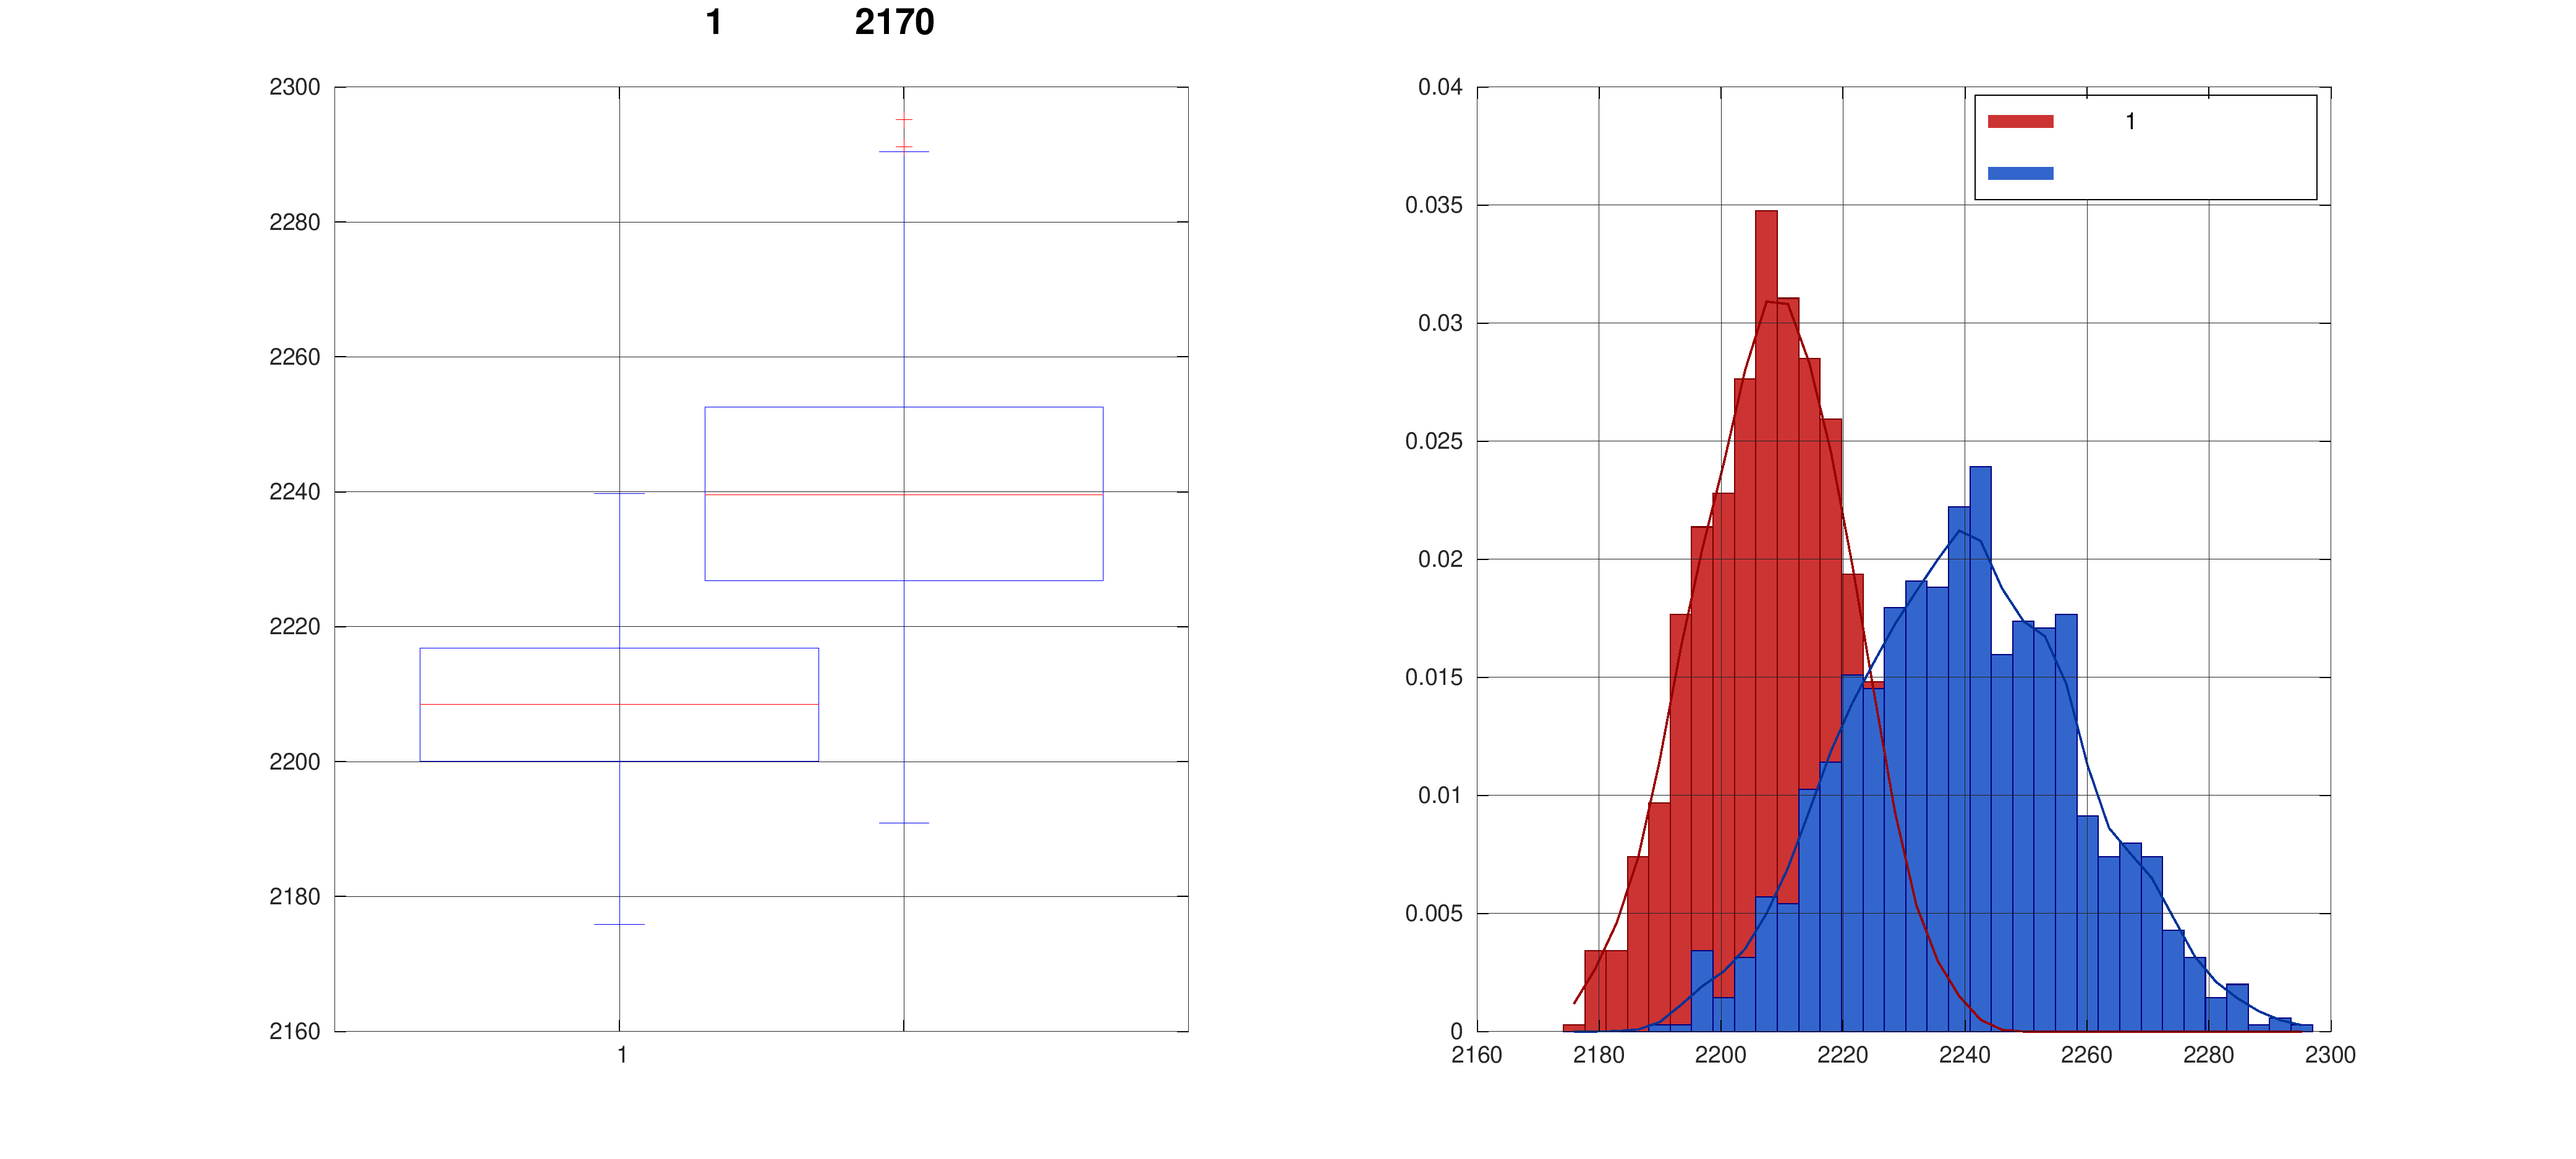
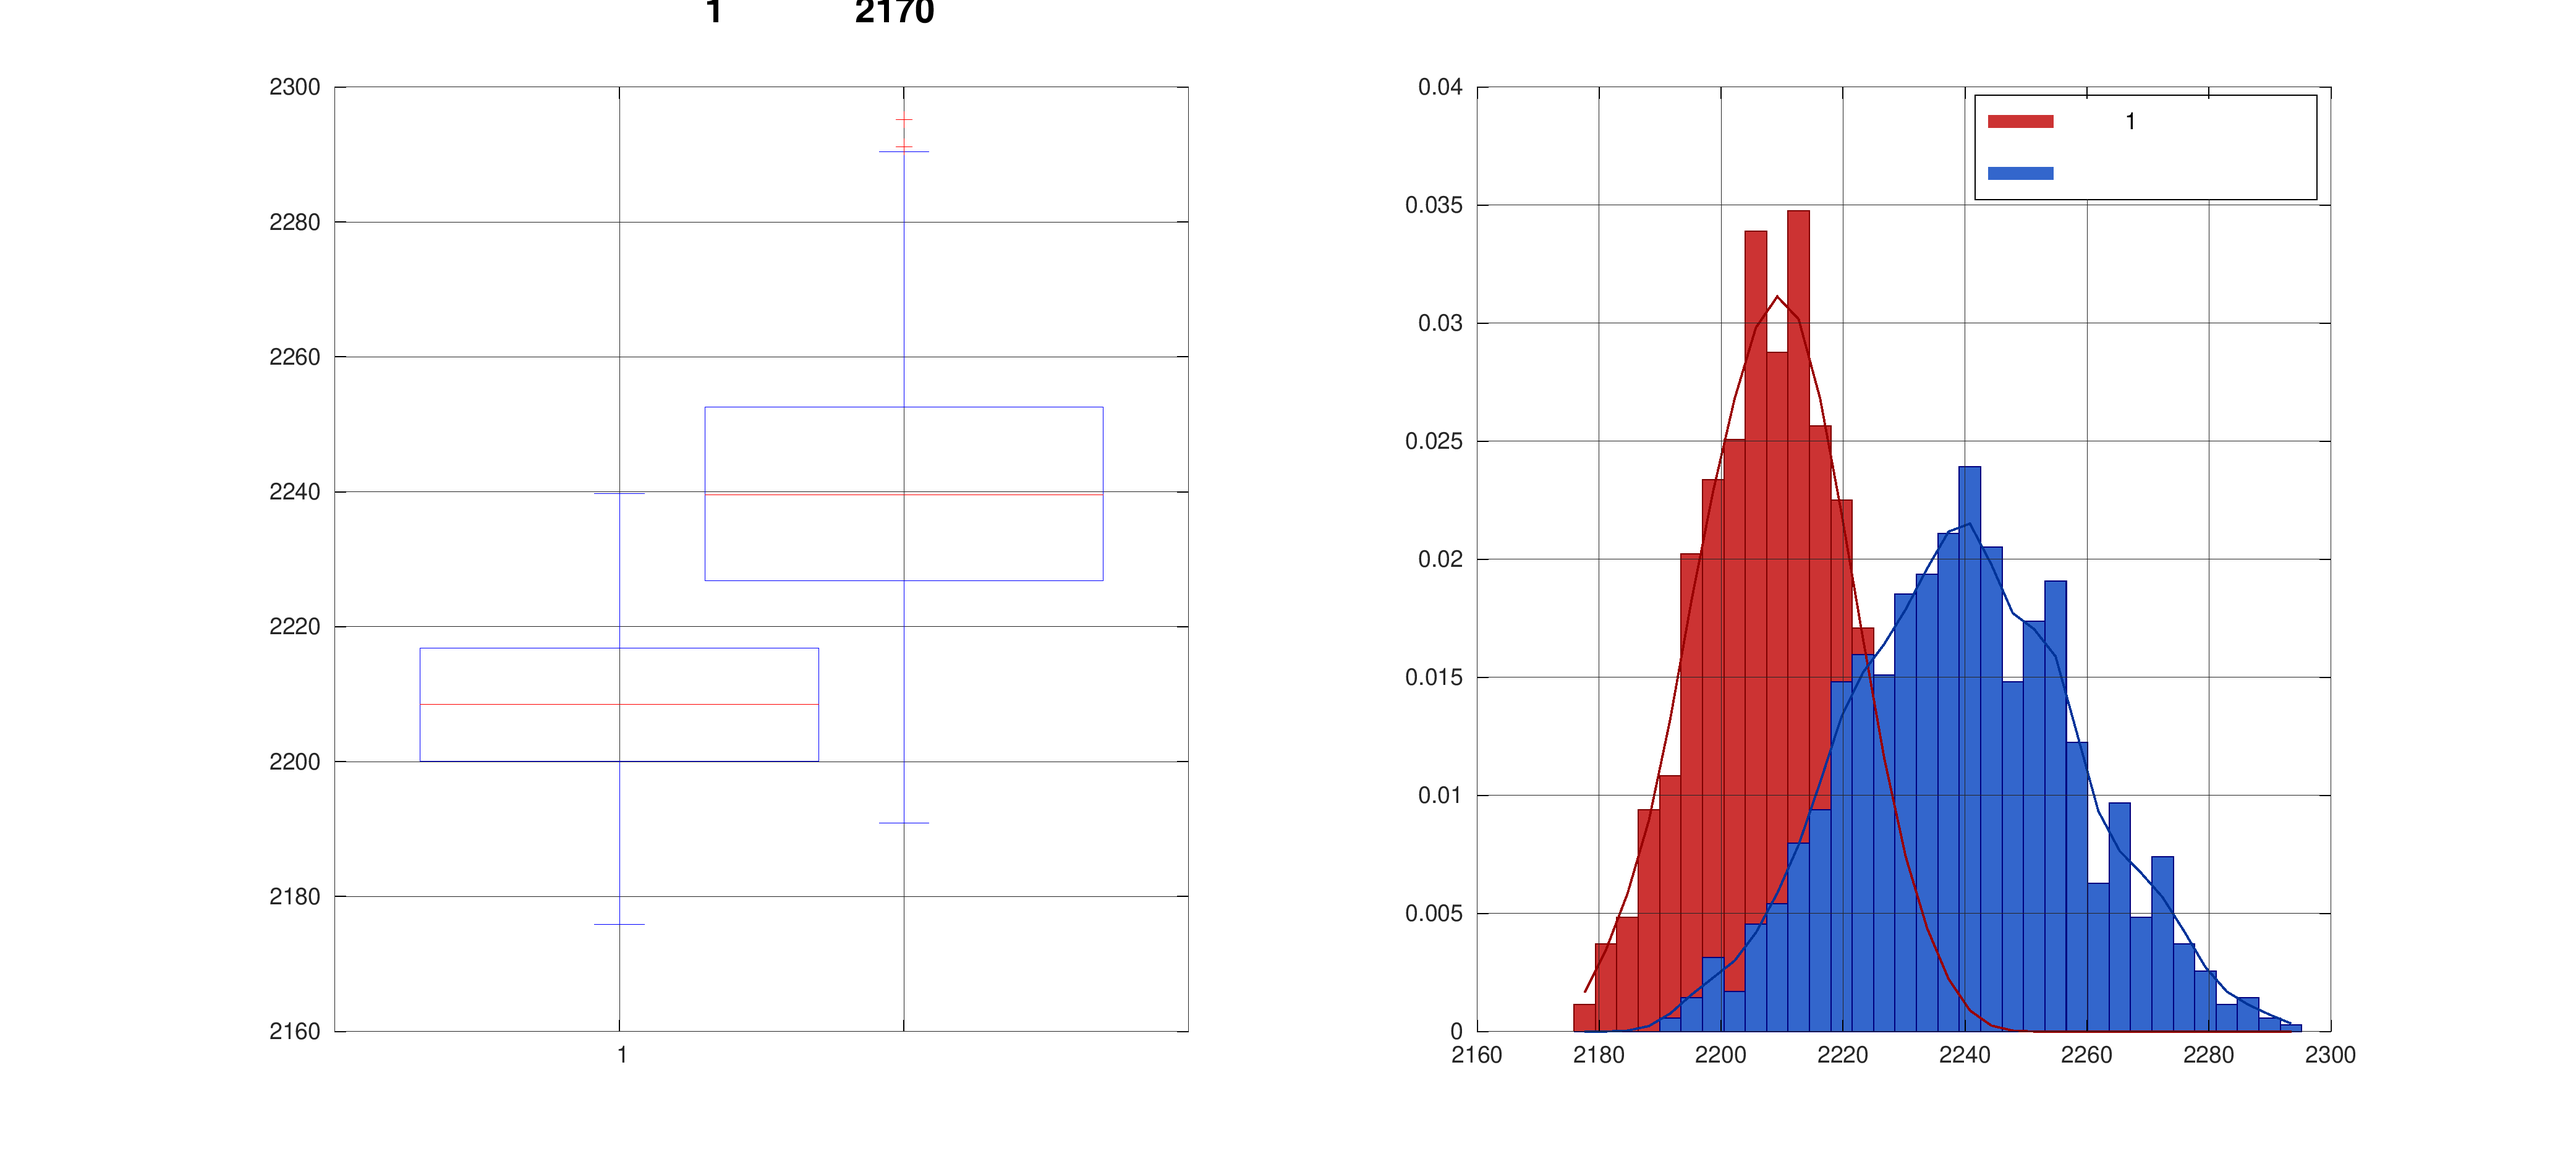
Address review feedback on fallback checks and histogram binning
Agent-Logs-Url: https://github.com/lian06166/111/sessions/f9b21574-6dfc-4fa6-a534-64b925c6a1bb

Changed region(s): [[0.5928, 0.1856, 0.9047, 0.8971], [0.312, 0.0, 0.3744, 0.0309]]

diff --git a/Untitled1.m b/Untitled1.m
@@ -61,9 +61,9 @@ hold off;
 % ��������ͳ��ע��
 
 text(0.3, 0.7, sprintf('Min: %.1f\nQ1: %.1f\nMed: %.1f\nQ3: %.1f\nMax: %.1f', stats1), ...
-    'Units', 'normalized', 'FontSize', 10, 'BackgroundColor', [1 1 1]); % Octave 不支持 RGBA 背景色
+    'Units', 'normalized', 'FontSize', 10, 'BackgroundColor', [1 1 1]); % Octave compatibility: no RGBA background color
 text(0.75, 0.78, sprintf('Min: %.1f\nQ1: %.1f\nMed: %.1f\nQ3: %.1f\nMax: %.1f', stats2), ...
-    'Units', 'normalized', 'FontSize', 10, 'BackgroundColor', [1 1 1]); % Octave 不支持 RGBA 背景色
+    'Units', 'normalized', 'FontSize', 10, 'BackgroundColor', [1 1 1]); % Octave compatibility: no RGBA background color
 
 % ===== �Ҳࣺ�����߽߱�����ηֲ�ͼ + ������ =====
 subplot(1, 2, 2);
@@ -71,6 +71,7 @@ subplot(1, 2, 2);
 % ȷ����ͬ��ֱ��ͼ�߽�
 all_data = [data1; data2];
 bin_edges = linspace(min(all_data), max(all_data), 35);
+bin_centers = (bin_edges(1:end-1) + bin_edges(2:end)) / 2;
 
 % ���Ƶ�һ�����ݵ�ֱ��ͼ�������߽߱磩
 if exist('histogram', 'builtin') || exist('histogram', 'file')
@@ -81,7 +82,7 @@ if exist('histogram', 'builtin') || exist('histogram', 'file')
               'LineWidth', 1.0, ...      % �߽��߿�
               'Normalization', 'pdf');
 else
-    [counts1, centers1] = hist(data1, bin_edges);
+    [counts1, centers1] = hist(data1, bin_centers);
     bin_width1 = centers1(2) - centers1(1);
     counts1 = counts1 / (sum(counts1) * bin_width1);
     bar(centers1, counts1, 1, ...
@@ -100,7 +101,7 @@ if exist('histogram', 'builtin') || exist('histogram', 'file')
               'LineWidth', 1.0, ...      % �߽��߿�
               'Normalization', 'pdf');
 else
-    [counts2, centers2] = hist(data2, bin_edges);
+    [counts2, centers2] = hist(data2, bin_centers);
     bin_width2 = centers2(2) - centers2(1);
     counts2 = counts2 / (sum(counts2) * bin_width2);
     bar(centers2, counts2, 1, ...
@@ -114,8 +115,8 @@ if exist('ksdensity', 'builtin') || exist('ksdensity', 'file')
     [f1, xi1] = ksdensity(data1);
     [f2, xi2] = ksdensity(data2);
 else
-    [f1, xi1] = hist(data1, bin_edges);
-    [f2, xi2] = hist(data2, bin_edges);
+    [f1, xi1] = hist(data1, bin_centers);
+    [f2, xi2] = hist(data2, bin_centers);
     dx1 = xi1(2) - xi1(1);
     dx2 = xi2(2) - xi2(1);
     f1 = f1 / (sum(f1) * dx1);
@@ -145,7 +146,7 @@ set(gca, 'FontSize', 9, 'GridAlpha', 0.3);
 if exist('sgtitle', 'builtin') || exist('sgtitle', 'file')
     sgtitle('多目标解集的方案 1 与单目标调度方案对比（加2170后）', 'FontSize', 14, 'FontWeight', 'bold');
 else
-    annotation('textbox', [0 0.95 1 0.05], ...
+    annotation('textbox', [0 0.96 1 0.04], ...
         'String', '多目标解集的方案 1 与单目标调度方案对比（加2170后）', ...
         'EdgeColor', 'none', ...
         'HorizontalAlignment', 'center', ...
